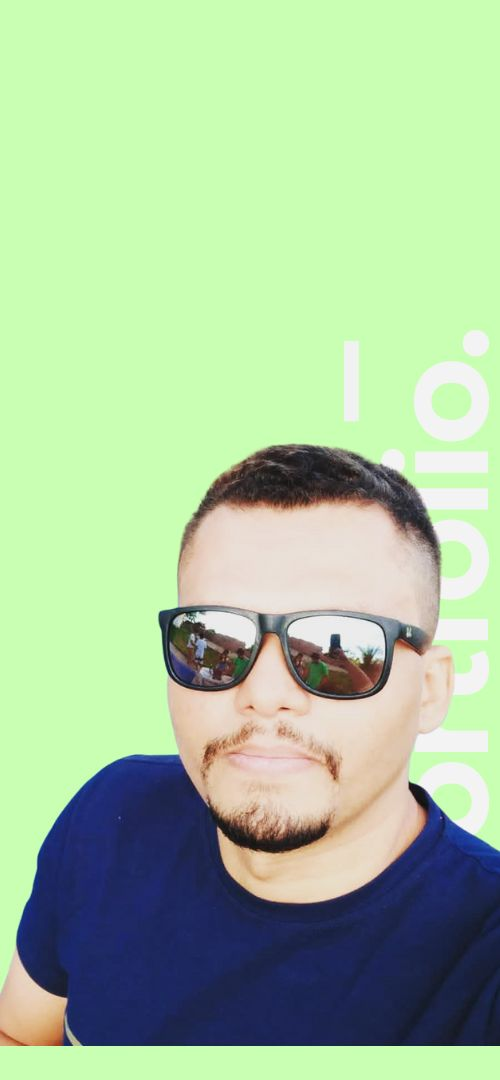
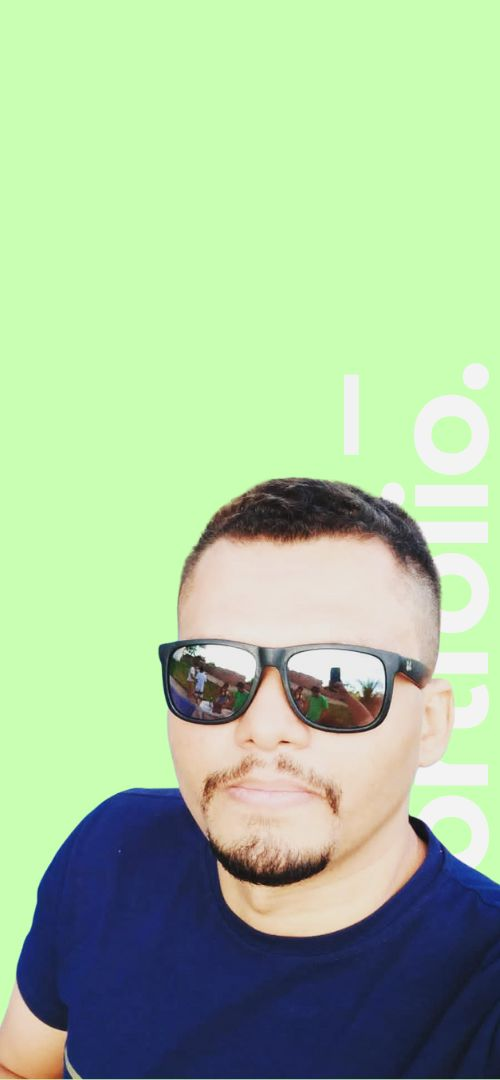
Responsividades ajustadas

Changed region(s): [[0.0, 0.3056, 1.0, 1.0]]

diff --git a/style/portfolio.css b/style/portfolio.css
@@ -513,7 +513,7 @@ footer .text span a:hover {
 
 @media (max-width: 750px) {
   .home {
-    background: url("Images/mobile750\ \(750\ x\ 1080\ px\).jpg") no-repeat left center/cover; 
+    background: url("Images/foto750px.jpg") no-repeat left center/cover; 
     background-attachment: scroll; 
   }
 
@@ -597,6 +597,10 @@ footer .text span a:hover {
 @media (max-width: 500px) {
   .home {
     background: url("Images/mobile500px.jpg") no-repeat left top/cover;
+  }
+
+  .home .text {
+    margin-top: -240px;
   }
 
   .home .text-two {
